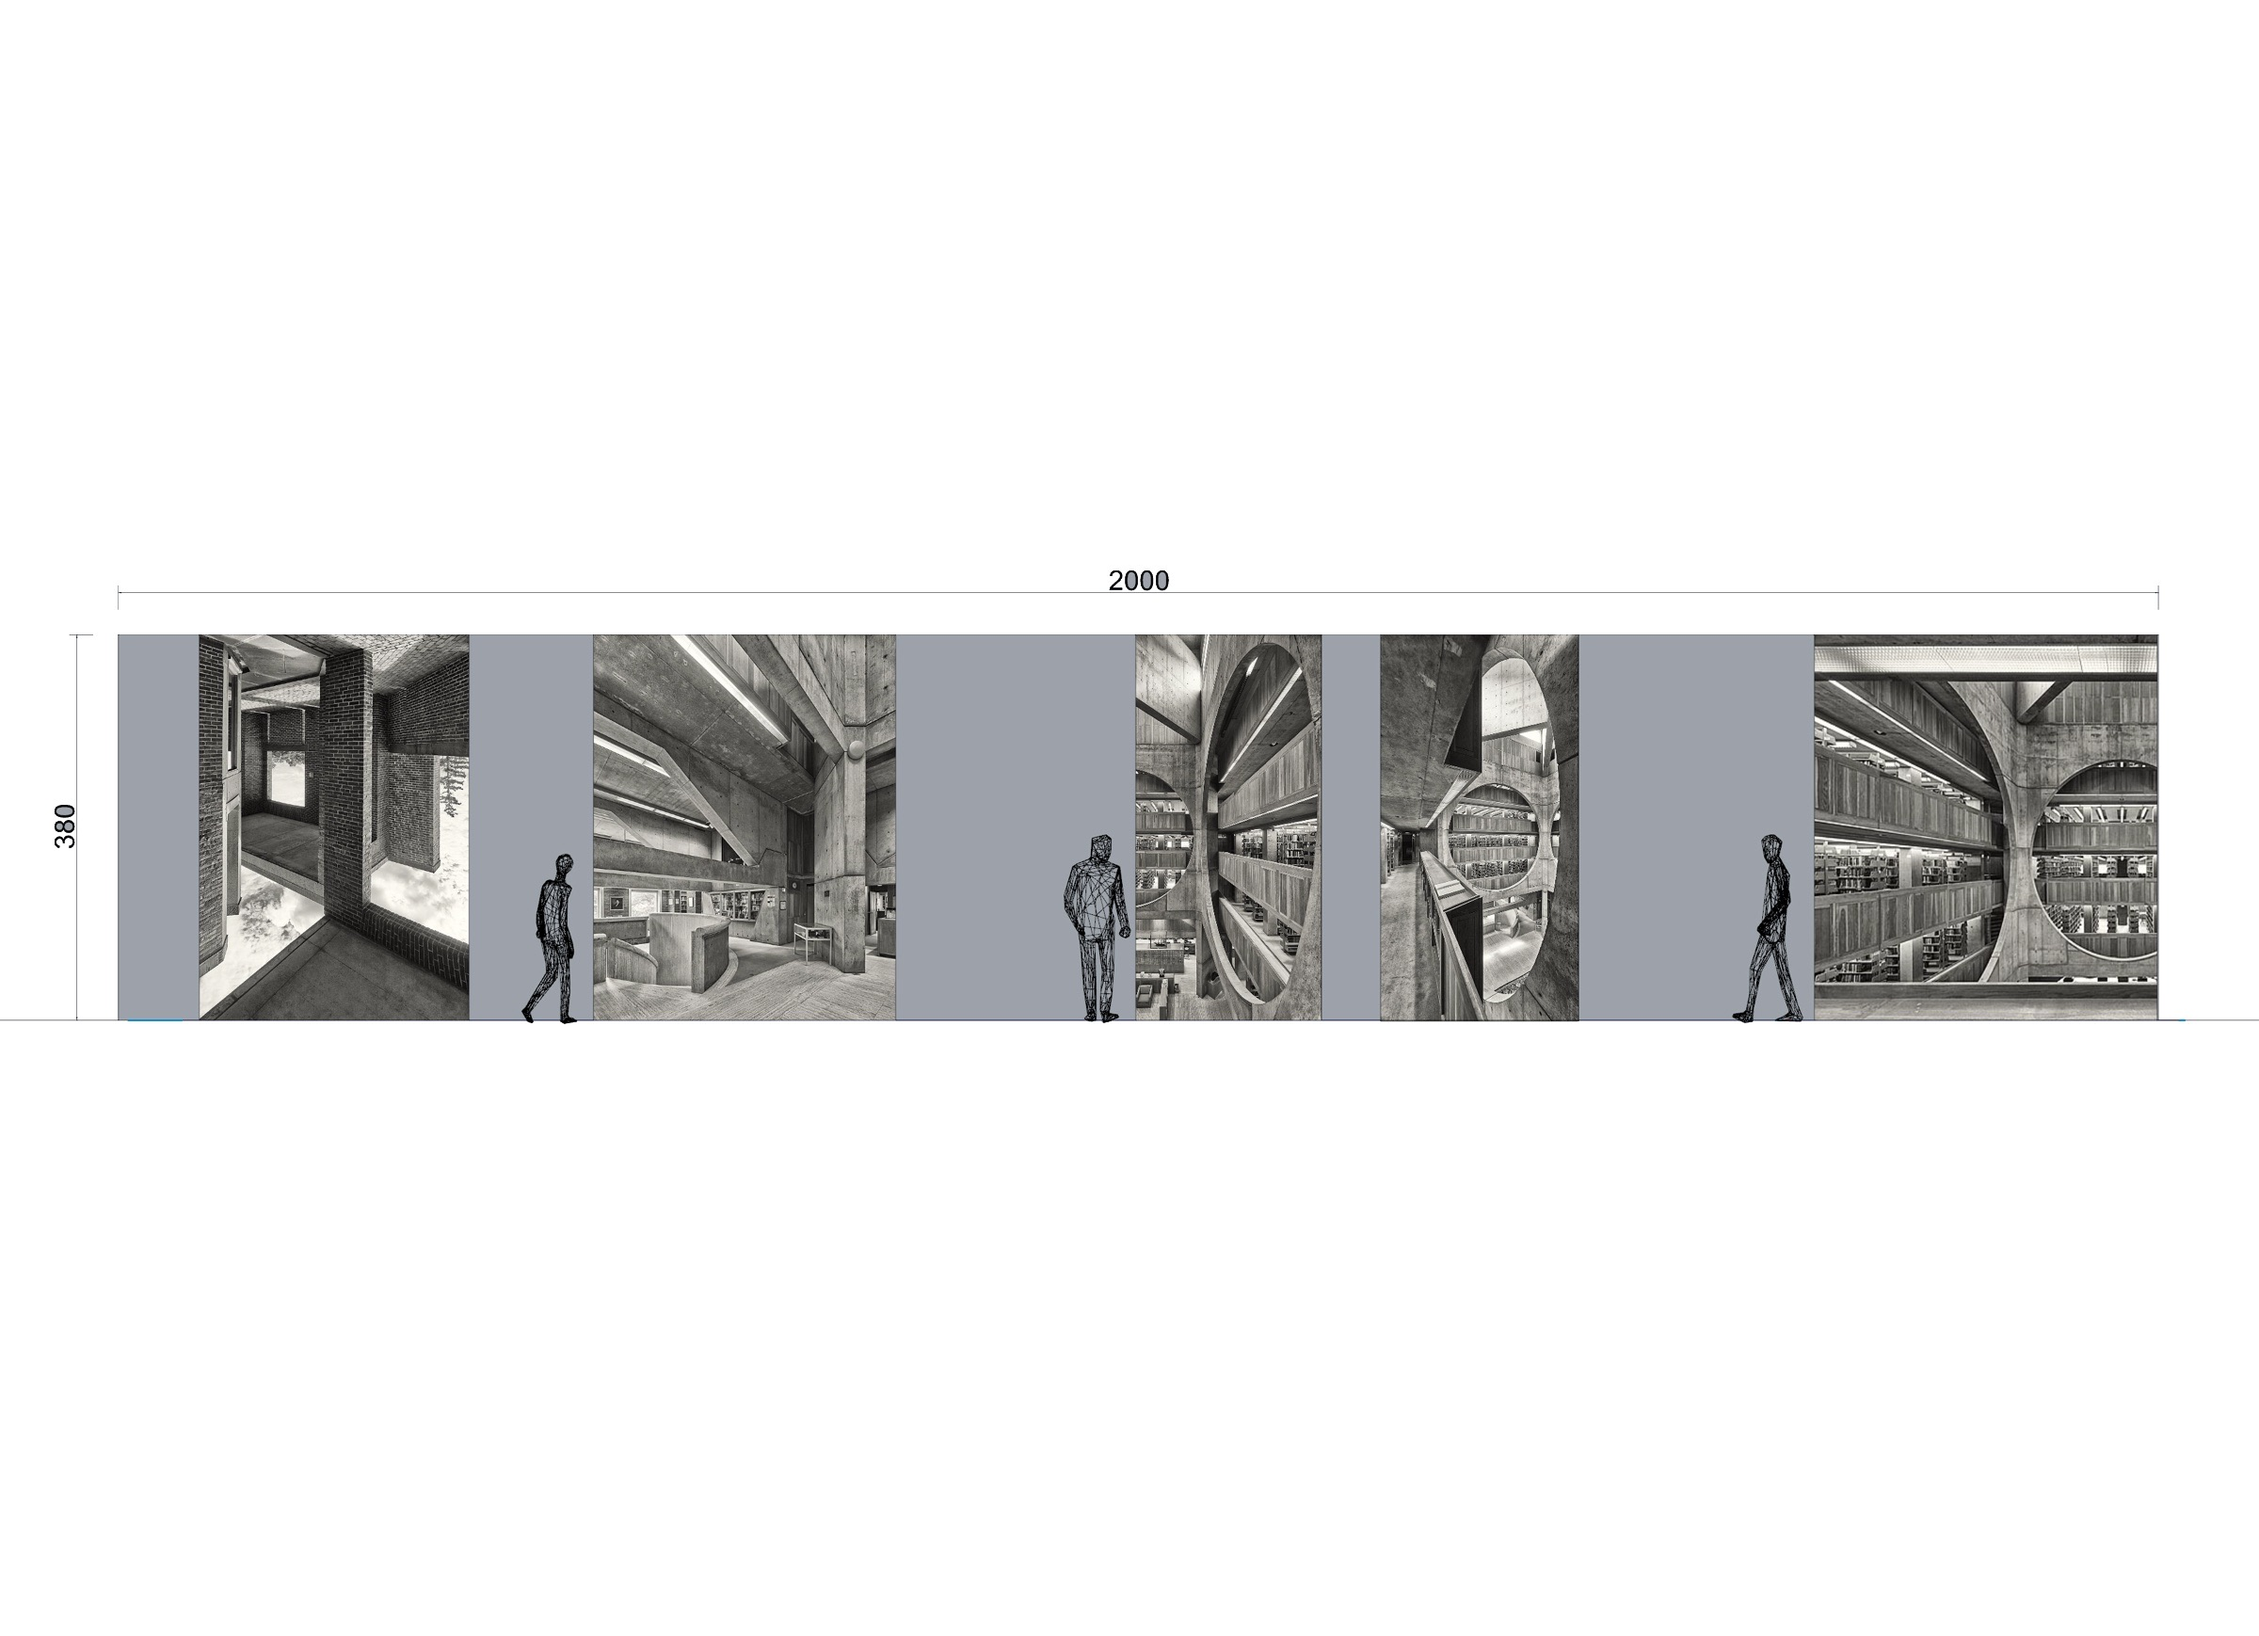
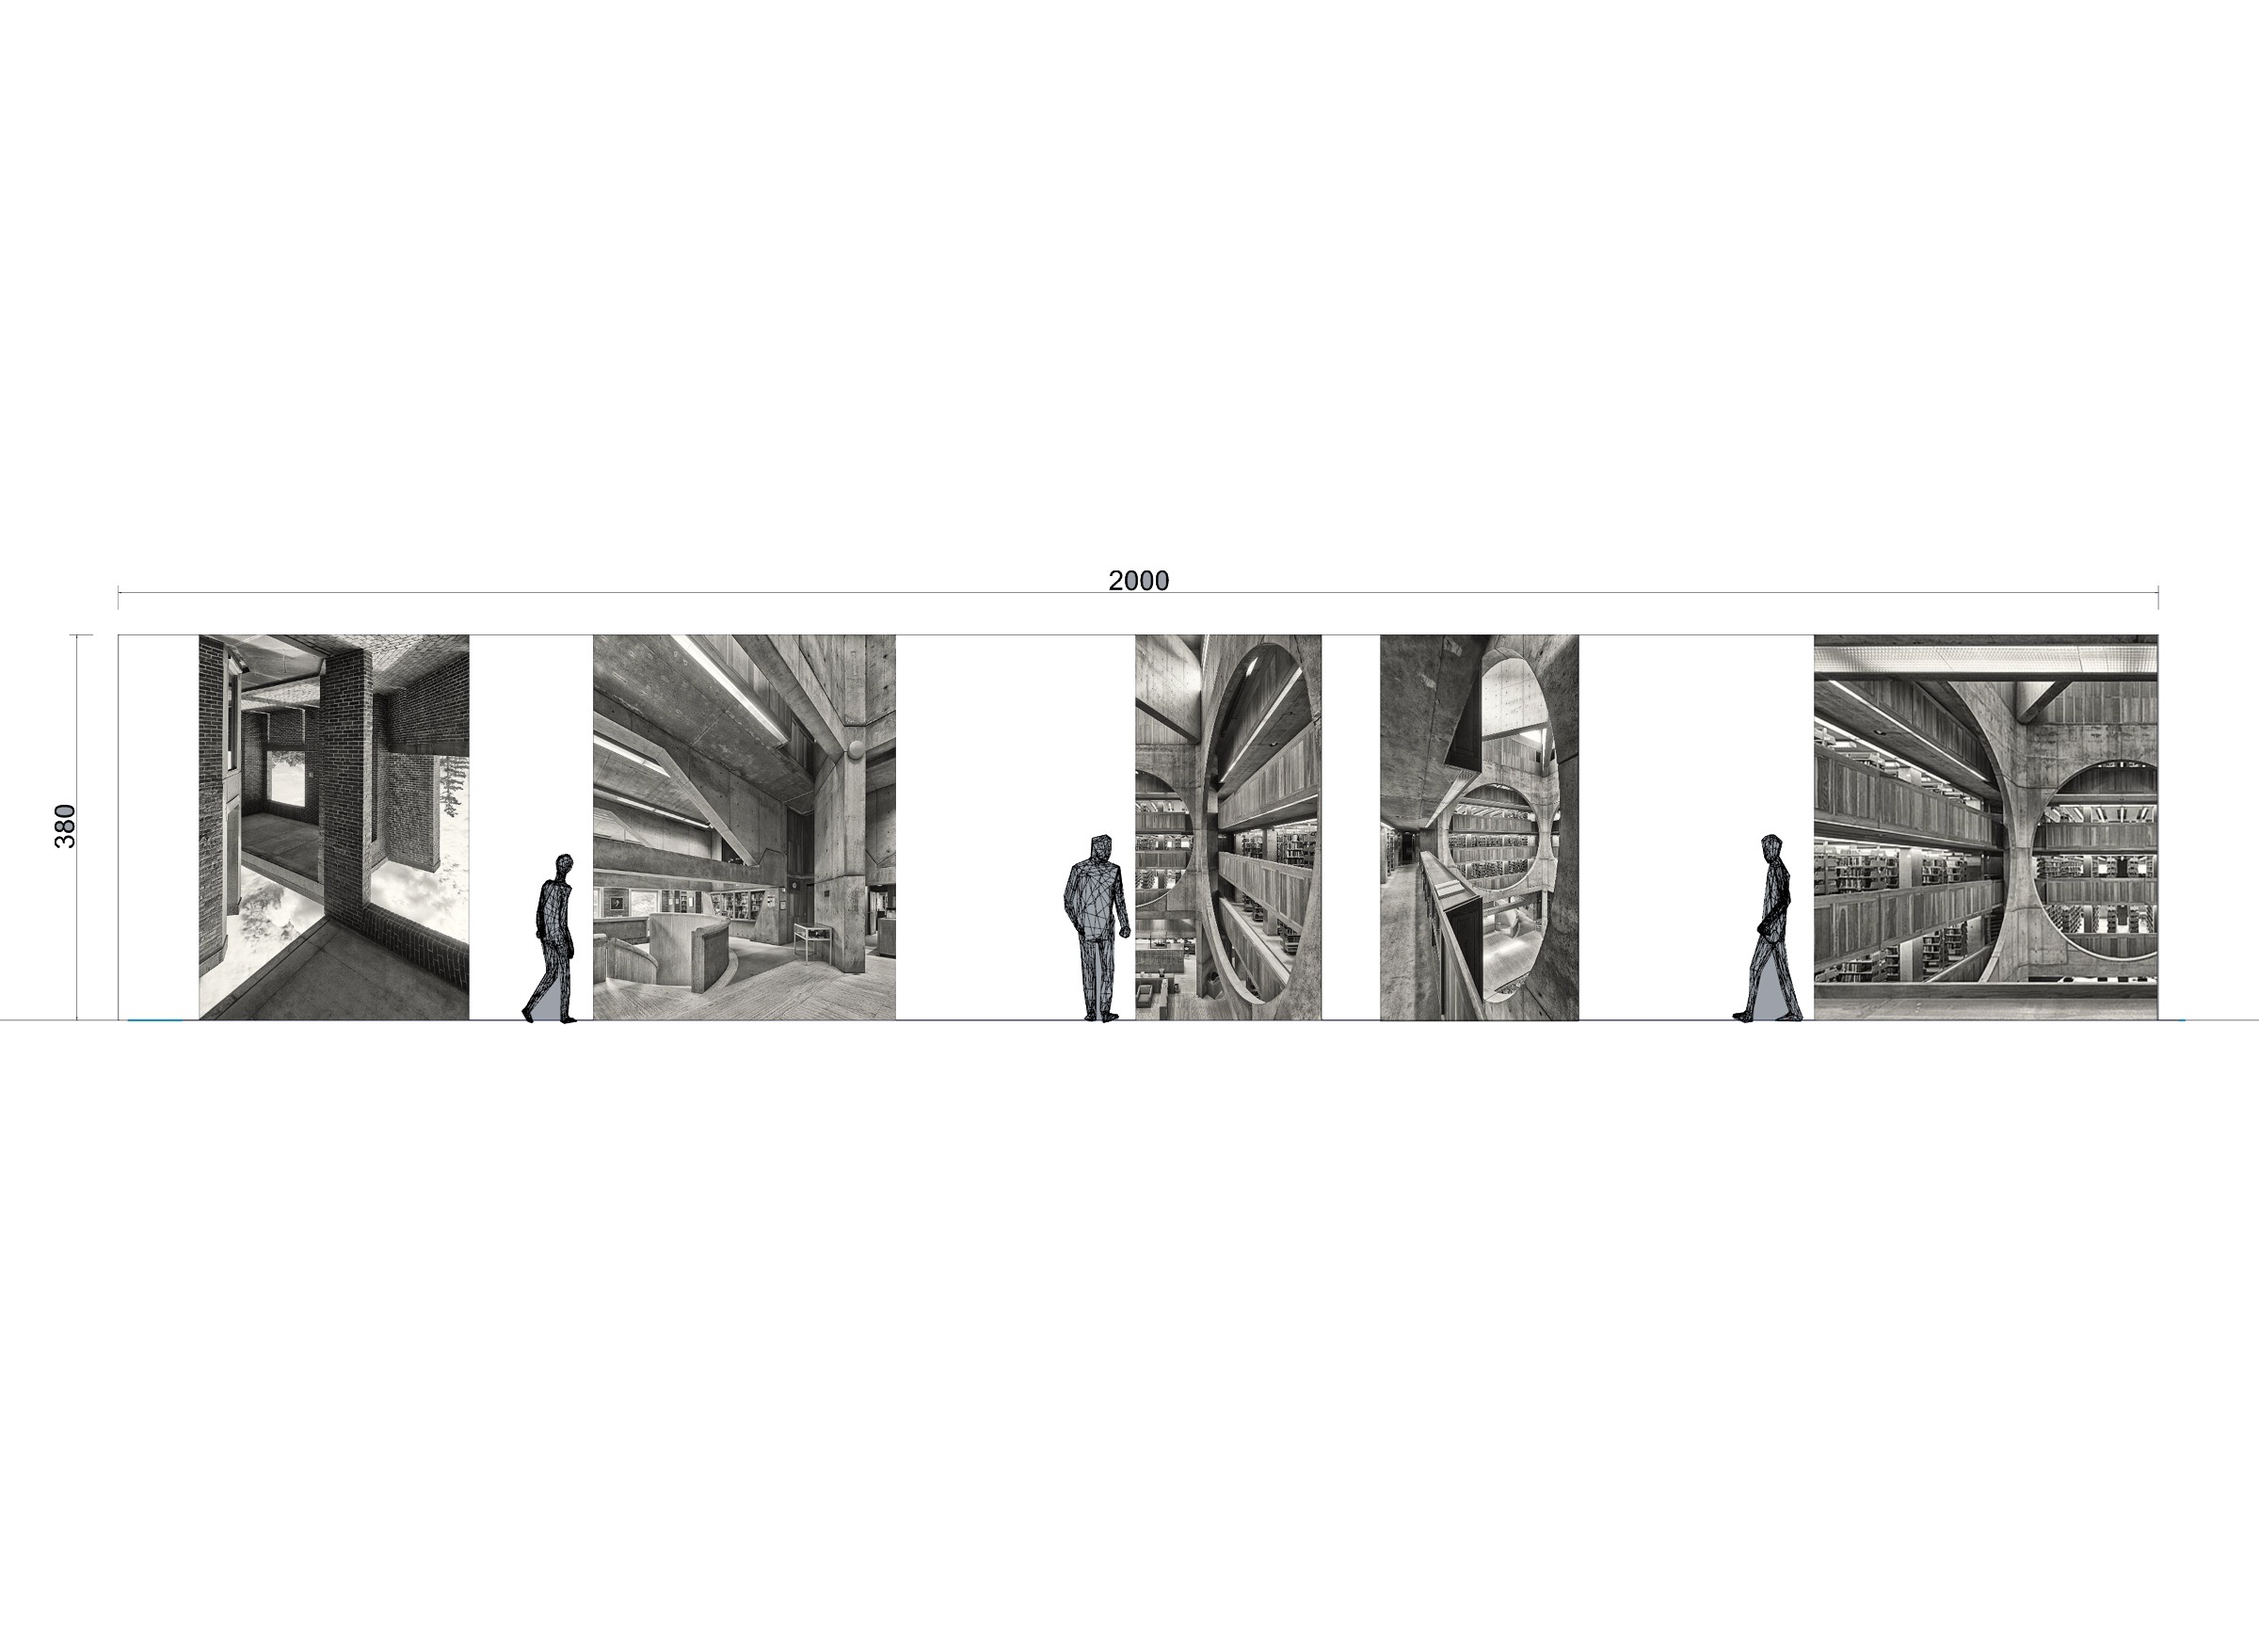
Louis Kahn: renk duzeltmesi, duvar cizimlerinde gri tamamen temizlendi, Work gorseli

diff --git a/data.js b/data.js
@@ -204,7 +204,7 @@ window.DATA = {
       summary: "A spatial video installation for the exhibition Re/Framing Louis Kahn at the Pera Museum, forming spatial photographs of Kahn's buildings.",
       para: "The installation sets out to form spatial photographs of Louis Kahn's buildings. The boundaries of the room set the scale of the video, so that walls and images are intertwined and the piece is experienced as one integrated space. Neither the room nor the audience is static: both act in the viewing, and the work invites visitors to move through the space with its sound and images. An atmospheric soundtrack edited from Kahn's own voice, and the formal relation between the flow of the video and the measurements of the room, carry this moving structure.",
       hero: "assets/projects/kahn/00-hero-viewer.jpg",
-      thumb: "assets/projects/kahn/04-installation-wide.jpg",
+      thumb: "assets/projects/kahn/07-exhibition-drawings.jpg",
       credits: [
         ["Exhibition", "Re/Framing Louis Kahn, Pera Museum, Istanbul"],
         ["Video", "37 min, sound edited from Louis Kahn's voice"],
